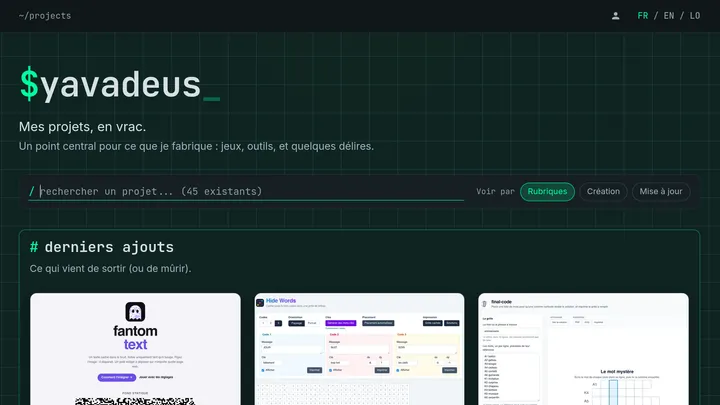
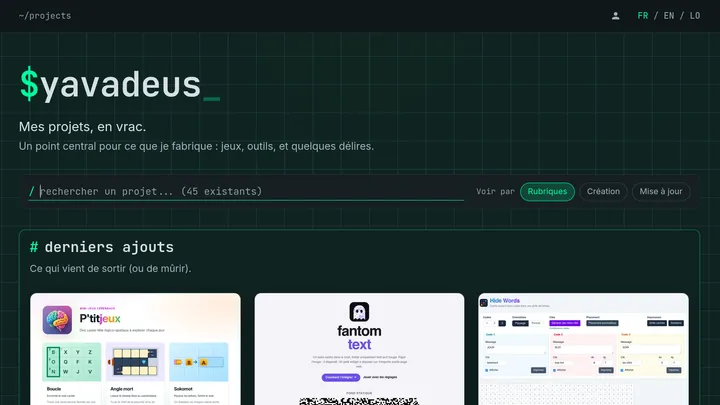
add 2 projects

diff --git a/src/data/projects.ts b/src/data/projects.ts
@@ -104,6 +104,8 @@ export const projects: Record<string, ProjectOverride> = {
   'jeu-anniversaire': { category: 'delires' },
   'fantom-text': { category: 'outils' },
   'hide-words': { category: 'outils' },
+  'pom-poche': { category: 'delires' },
+  'texte-en-voix': { category: 'outils' },
   // CLI_INSERT_PROJECTS (do not remove) -- `make curate` appends entries here
 };
 
